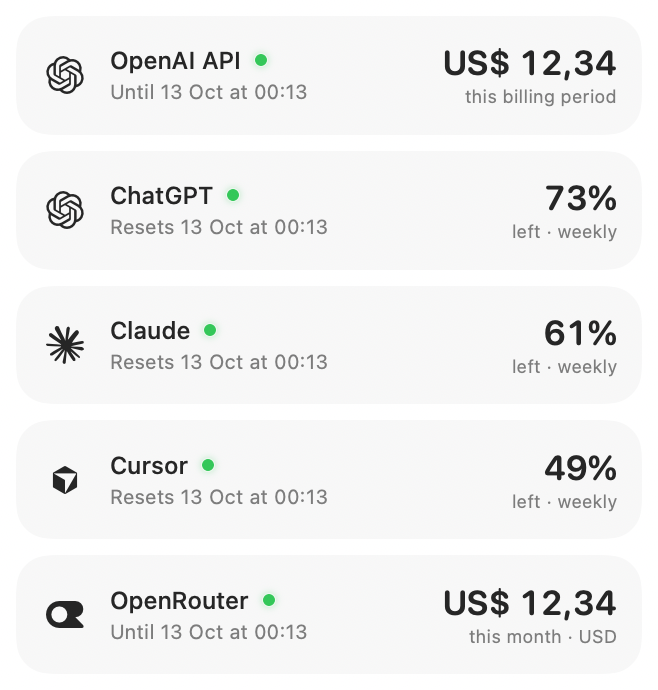
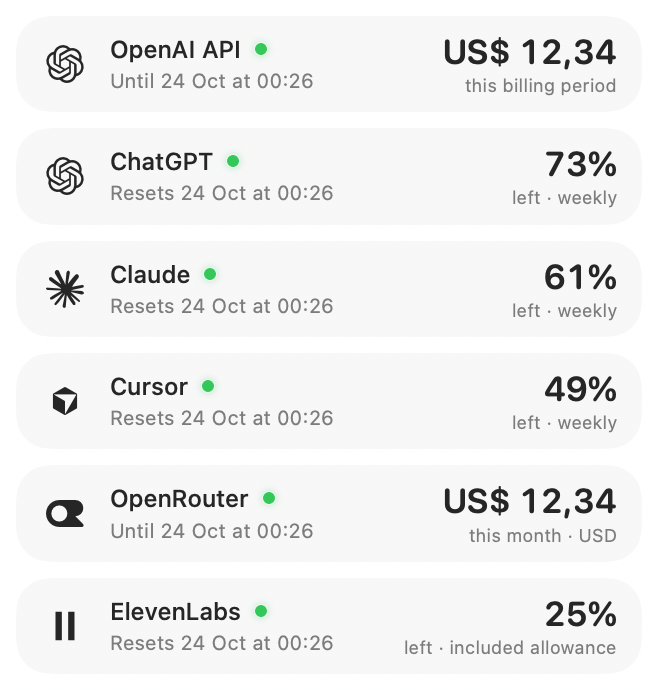
Add ElevenLabs support for AI Pulse 1.7

diff --git a/Tests/ElevenLabsUsageTests.swift b/Tests/ElevenLabsUsageTests.swift
@@ -1,0 +1,67 @@
+import XCTest
+@testable import AIPulseCore
+
+final class ElevenLabsUsageTests: XCTestCase {
+    private let now = Date(timeIntervalSince1970: 1_800_000_000)
+    private func reading(_ json: String) throws -> Reading {
+        try ElevenLabsUsageClient.reading(from: Data(json.utf8), now: now)
+    }
+    func testAllowanceAndReportedReset() throws {
+        let r = try reading(#"{"character_count":2500,"character_limit":10000,"next_character_count_reset_unix":1800100000}"#)
+        XCTAssertEqual(r.provider, .elevenlabs)
+        XCTAssertEqual(r.value, 75)
+        XCTAssertEqual(r.kind, .remaining)
+        XCTAssertEqual(r.periodEnd, Date(timeIntervalSince1970: 1_800_100_000))
+        XCTAssertEqual(r.connectionHealth(at: now), .current)
+        XCTAssertTrue(Provider.elevenlabs.usesAPIKey)
+        XCTAssertEqual(Provider.elevenlabs.defaultMetricKind, .remaining)
+    }
+    func testOverageCannotBecomeNegativeAllowance() throws {
+        XCTAssertEqual(try reading(#"{"character_count":12000,"character_limit":10000}"#).value, 0)
+        XCTAssertEqual(try reading(#"{"character_count":0,"character_limit":10000}"#).value, 100)
+    }
+    func testMissingResetNotInventedAndOldResetExpires() throws {
+        XCTAssertNil(try reading(#"{"character_count":1,"character_limit":10,"next_character_count_reset_unix":null}"#).periodEnd)
+        XCTAssertTrue(try reading(#"{"character_count":1,"character_limit":10,"next_character_count_reset_unix":1799999999}"#).isExpired(at: now))
+    }
+    func testInvalidAllowanceDoesNotProduceFakePercentage() {
+        for json in [#"{}"#, #"{"character_count":-1,"character_limit":100}"#, #"{"character_count":0,"character_limit":0}"#, #"{"character_count":0,"character_limit":-1}"#, #"{"character_count":1,"character_limit":10,"next_character_count_reset_unix":-1}"#] {
+            XCTAssertThrowsError(try reading(json))
+        }
+    }
+    func testSixProvidersCanBeSelectedAndOrdered() {
+        let all = WidgetPresentation.samples(at: now)
+        XCTAssertEqual(all.count, 6)
+        XCTAssertEqual(WidgetPresentation.configuredReadings(all, selection: Provider.allCases, followAppOrder: true).count, 6)
+        XCTAssertEqual(WidgetPresentation.configuredReadings(all, selection: [.elevenlabs, .openai], followAppOrder: false).map(\.provider), [.elevenlabs, .openai])
+    }
+    func testRequestAuthenticationAndErrorsDoNotLeakResponse() async throws {
+        let config = URLSessionConfiguration.ephemeral
+        config.protocolClasses = [StubURLProtocol.self]
+        let session = URLSession(configuration: config)
+        defer { session.invalidateAndCancel(); StubURLProtocol.handler = nil }
+        StubURLProtocol.handler = { request in
+            XCTAssertEqual(request.url?.absoluteString, "https://api.elevenlabs.io/v1/user/subscription")
+            XCTAssertEqual(request.httpMethod, "GET")
+            XCTAssertEqual(request.value(forHTTPHeaderField: "xi-api-key"), "test-key")
+            return (200, Data(#"{"character_count":25,"character_limit":100}"#.utf8))
+        }
+        let result = try await ElevenLabsUsageClient(session: session).fetch(key: " test-key ", now: now)
+        XCTAssertEqual(result.value, 75)
+        for status in [401, 403, 429, 500] {
+            StubURLProtocol.handler = { _ in (status, Data("private-response-marker".utf8)) }
+            do {
+                _ = try await ElevenLabsUsageClient(session: session).fetch(key: "test-key", now: now)
+                XCTFail("Expected HTTP failure")
+            } catch {
+                XCTAssertFalse(error.localizedDescription.contains("private-response-marker"))
+                if status == 401 { guard case UsageError.unauthorized = error else { return XCTFail("Expected authentication error") } }
+                if status == 429 { guard case UsageError.rateLimited = error else { return XCTFail("Expected rate limit") } }
+            }
+        }
+        StubURLProtocol.handler = { _ in XCTFail("Empty key should not be sent"); return (500, Data()) }
+        do { _ = try await ElevenLabsUsageClient(session: session).fetch(key: "  "); XCTFail("Expected missing-key error") }
+        catch { XCTAssertTrue(error.localizedDescription.contains("API key")) }
+    }
+
+}

diff --git a/Shared/ElevenLabsUsageClient.swift b/Shared/ElevenLabsUsageClient.swift
@@ -1,0 +1,49 @@
+import Foundation
+
+/// Reads subscription allowance only; never performs billable generation requests.
+struct ElevenLabsUsageClient {
+    let session: URLSession
+
+    func fetch(key: String, now: Date = Date()) async throws -> Reading {
+        let key = key.trimmingCharacters(in: .whitespacesAndNewlines)
+        guard !key.isEmpty else { throw UsageError.unavailable("Enter an ElevenLabs API key.") }
+        var request = URLRequest(url: URL(string: "https://api.elevenlabs.io/v1/user/subscription")!)
+        request.timeoutInterval = 60
+        request.setValue(key, forHTTPHeaderField: "xi-api-key")
+        request.setValue("application/json", forHTTPHeaderField: "Accept")
+        let (data, response) = try await session.data(for: request)
+        guard let response = response as? HTTPURLResponse else { throw UsageError.network }
+        switch response.statusCode {
+        case 200: break
+        case 401: throw UsageError.unauthorized
+        case 403: throw UsageError.unavailable("Allow subscription read access for this ElevenLabs API key, then check again.")
+        case 429: throw UsageError.rateLimited
+        default: throw UsageError.unavailable("ElevenLabs returned HTTP \(response.statusCode). Try again later.")
+        }
+        return try Self.reading(from: data, now: now)
+    }
+
+    static func reading(from data: Data, now: Date) throws -> Reading {
+        struct Subscription: Decodable {
+            let character_count: Double
+            let character_limit: Double
+            let next_character_count_reset_unix: Double?
+        }
+        let subscription: Subscription
+        do { subscription = try JSONDecoder().decode(Subscription.self, from: data) }
+        catch { throw UsageError.malformed }
+        guard subscription.character_count.isFinite, subscription.character_count >= 0,
+              subscription.character_limit.isFinite, subscription.character_limit > 0 else {
+            throw UsageError.unavailable("ElevenLabs did not report a usable subscription allowance.")
+        }
+        var reset: Date?
+        if let timestamp = subscription.next_character_count_reset_unix {
+            guard timestamp.isFinite, timestamp > 0 else { throw UsageError.malformed }
+            reset = Date(timeIntervalSince1970: timestamp)
+        }
+        let remaining = max(0, 1 - subscription.character_count / subscription.character_limit) * 100
+        return Reading(provider: .elevenlabs, kind: .remaining, value: remaining,
+                       periodEnd: reset, window: "included allowance", fetchedAt: now, state: .ready,
+                       detail: "Remaining included subscription allowance reported by ElevenLabs for this API key. Usage beyond the allowance displays 0%; overage costs and invoice totals are not included. A missing reset date is not estimated.")
+    }
+}

diff --git a/Widget/AIPulseWidget.swift b/Widget/AIPulseWidget.swift
@@ -3,15 +3,15 @@ import SwiftUI
 import AppIntents
 
 enum WidgetProviderChoice: String, AppEnum {
-    case openai, chatgpt, claude, cursor, openrouter
+    case openai, chatgpt, claude, cursor, openrouter, elevenlabs
     static var typeDisplayRepresentation: TypeDisplayRepresentation = "Provider"
-    static var caseDisplayRepresentations: [Self: DisplayRepresentation] = [.openai: "OpenAI API", .chatgpt: "ChatGPT", .claude: "Claude", .cursor: "Cursor", .openrouter: "OpenRouter"]
+    static var caseDisplayRepresentations: [Self: DisplayRepresentation] = [.openai: "OpenAI API", .chatgpt: "ChatGPT", .claude: "Claude", .cursor: "Cursor", .openrouter: "OpenRouter", .elevenlabs: "ElevenLabs"]
 }
 enum WidgetRowChoice: String, AppEnum {
-    case hidden, openai, chatgpt, claude, cursor, openrouter
+    case hidden, openai, chatgpt, claude, cursor, openrouter, elevenlabs
     static var typeDisplayRepresentation: TypeDisplayRepresentation = "Provider row"
     static var caseDisplayRepresentations: [Self: DisplayRepresentation] = [
-        .hidden: "Hidden", .openai: "OpenAI API", .chatgpt: "ChatGPT", .claude: "Claude", .cursor: "Cursor", .openrouter: "OpenRouter"
+        .hidden: "Hidden", .openai: "OpenAI API", .chatgpt: "ChatGPT", .claude: "Claude", .cursor: "Cursor", .openrouter: "OpenRouter", .elevenlabs: "ElevenLabs"
     ]
 }
 struct WidgetOptions: WidgetConfigurationIntent {
@@ -25,10 +25,12 @@ struct WidgetOptions: WidgetConfigurationIntent {
     @Parameter(title: "Fourth row", default: .cursor) var fourth: WidgetRowChoice
     @Parameter(title: "Fifth row", default: .openrouter) var fifth: WidgetRowChoice
 
+    @Parameter(title: "Sixth row", default: .elevenlabs) var sixth: WidgetRowChoice
+
     func arranged(_ readings: [Reading], family: WidgetFamily) -> [Reading] {
         guard family != .systemSmall else { return readings }
         return WidgetPresentation.configuredReadings(readings,
-            selection: [first, second, third, fourth, fifth].compactMap { Provider(rawValue: $0.rawValue) }, followAppOrder: followApp)
+            selection: [first, second, third, fourth, fifth, sixth].compactMap { Provider(rawValue: $0.rawValue) }, followAppOrder: followApp)
     }
 }
 struct PulseEntry: TimelineEntry {

diff --git a/App/PulseStore.swift b/App/PulseStore.swift
@@ -294,6 +294,11 @@ import Darwin
                         throw UsageError.unavailable("Add an OpenRouter Management API key in Settings.")
                     }
                     result = try await OpenRouterCostClient(session: SameHostRedirects.session).fetch(key: key)
+                case .elevenlabs:
+                    guard let key = try Credentials.read(provider.credentialAccount), !key.isEmpty else {
+                        throw UsageError.unavailable("Add an ElevenLabs API key in Settings.")
+                    }
+                    result = try await ElevenLabsUsageClient(session: SameHostRedirects.session).fetch(key: key)
                 case .claude:
                     var id = config.organizationID
                     if id.isEmpty {
@@ -333,7 +338,7 @@ import Darwin
             if case UsageError.unavailable = error { last.state = .unavailable }
             if transient { last.detail = UsageError.network.localizedDescription }
             else if error is UsageError { last.detail = error.localizedDescription }
-            else if provider.usesAPIKey { last.detail = "\(provider.name) could not complete the cost request (error \((error as NSError).code)). Try again." }
+            else if provider.usesAPIKey { last.detail = "\(provider.name) could not complete the usage request (error \((error as NSError).code)). Try again." }
             else { last.detail = "Could not read the provider dashboard. Open its sign-in window and try again." }
             failures[provider, default: 0] += 1
             var delay = min(3600.0, 300 * pow(2, Double(failures[provider, default: 1] - 1)))

diff --git a/Shared/Models.swift b/Shared/Models.swift
@@ -2,14 +2,14 @@ import Foundation
 import CoreGraphics
 
 enum Provider: String, Codable, CaseIterable, Identifiable, Sendable {
-    case openai, chatgpt, claude, cursor, openrouter
+    case openai, chatgpt, claude, cursor, openrouter, elevenlabs
     var id: String { rawValue }
     var name: String {
-        switch self { case .openai: "OpenAI API"; case .chatgpt: "ChatGPT"; case .claude: "Claude"; case .cursor: "Cursor"; case .openrouter: "OpenRouter" }
+        switch self { case .openai: "OpenAI API"; case .chatgpt: "ChatGPT"; case .claude: "Claude"; case .cursor: "Cursor"; case .openrouter: "OpenRouter"; case .elevenlabs: "ElevenLabs" }
     }
-    var usesAPIKey: Bool { self == .openai || self == .openrouter }
+    var usesAPIKey: Bool { self == .openai || self == .openrouter || self == .elevenlabs }
     var credentialAccount: String { rawValue + "-key" }
-    var defaultMetricKind: MetricKind { usesAPIKey ? .cost : .remaining }
+    var defaultMetricKind: MetricKind { (self == .openai || self == .openrouter) ? .cost : .remaining }
     var logo: String { self == .chatgpt ? "openai" : rawValue }
     var website: URL {
         let address = switch self {
@@ -18,6 +18,7 @@ enum Provider: String, Codable, CaseIterable, Identifiable, Sendable {
         case .claude: "https://claude.ai/new#settings/usage"
         case .cursor: "https://cursor.com/dashboard/usage"
         case .openrouter: "https://openrouter.ai/activity"
+        case .elevenlabs: "https://elevenlabs.io/app/subscription"
         }
         return URL(string: address)!
     }

diff --git a/App/ConnectionsView.swift b/App/ConnectionsView.swift
@@ -67,6 +67,13 @@ struct ConnectionsView: View {
                 Picker("Billing day", selection: $config.billingDay) { ForEach(1...31, id: \.self) { Text(String($0)).tag($0) } }.frame(width: 85)
                 Text("UTC · defaults to calendar month").font(.caption).foregroundStyle(.secondary)
             }
+        } else if store.selected == .elevenlabs {
+            Text("Use an ElevenLabs API key with subscription read access. The key stays in this Mac’s Keychain.")
+                .font(.caption).foregroundStyle(.secondary)
+            Link("Open ElevenLabs API keys", destination: URL(string: "https://elevenlabs.io/app/settings/api-keys")!)
+            SecureField("API key · leave blank to keep saved key", text: $key).textFieldStyle(.roundedBorder)
+            Text("Shows the percentage of included subscription allowance remaining and the provider-reported reset date. Overage charges are not included; exhausted allowance shows 0%.")
+                .font(.caption).foregroundStyle(.secondary)
         } else if store.selected == .openrouter {
             Text("Use a Management API key to read account-wide Activity spend for the current UTC month. For organization accounts this includes the whole organization. The key stays in this Mac’s Keychain.")
                 .font(.caption).foregroundStyle(.secondary)

diff --git a/App/ProviderArrangementWindow.swift b/App/ProviderArrangementWindow.swift
@@ -7,7 +7,7 @@ import SwiftUI
     required init?(coder: NSCoder) { fatalError("init(coder:) has not been implemented") }
     func show(store: PulseStore) {
         if window == nil {
-            let window = NSWindow(contentRect: NSRect(x: 0, y: 0, width: 410, height: 440),
+            let window = NSWindow(contentRect: NSRect(x: 0, y: 0, width: 410, height: 492),
                                   styleMask: [.titled, .closable], backing: .buffered, defer: false)
             window.title = "Arrange AI Pulse"
             window.isReleasedWhenClosed = false
@@ -71,6 +71,6 @@ private struct ProviderArrangementView: View {
             }.coordinateSpace(name: "arrangement")
                 .onPreferenceChange(CardFramePreference.self) { frames = $0 }
             Text("Changes are saved automatically.").font(.caption).foregroundStyle(.secondary)
-        }.frame(width: 370, height: 400, alignment: .top).padding(20)
+        }.frame(width: 370, height: 452, alignment: .top).padding(20)
     }
 }

diff --git a/Shared/WidgetPresentation.swift b/Shared/WidgetPresentation.swift
@@ -38,9 +38,9 @@ enum WidgetPresentation {
     static func samples(at now: Date) -> [Reading] {
         Provider.allCases.enumerated().map { index, provider in
             Reading(provider: provider, kind: provider.defaultMetricKind,
-                    value: provider.usesAPIKey ? 12.34 : Double(85 - index * 12),
+                    value: provider.defaultMetricKind == .cost ? 12.34 : Double(85 - index * 12),
                     periodEnd: now.addingTimeInterval(86_400 * 7),
-                    window: provider.usesAPIKey ? "" : "weekly", fetchedAt: now,
+                    window: provider.defaultMetricKind == .cost ? "" : (provider == .elevenlabs ? "included allowance" : "weekly"), fetchedAt: now,
                     state: .ready, detail: "Preview data")
         }
     }

diff --git a/Tests/UsageTests.swift b/Tests/UsageTests.swift
@@ -109,7 +109,7 @@ final class UsageTests: XCTestCase {
                        [[.claude], [.openai], [.chatgpt, .cursor]])
         XCTAssertEqual(CardArrangement.moving(.claude, relativeTo: .claude, placement: .below, in: rows), rows)
         let restored = CardArrangement.normalized([[.cursor, .cursor], [], [.claude]], including: Provider.allCases)
-        XCTAssertEqual(restored, [[.cursor], [.claude], [.openai, .chatgpt, .openrouter]])
+        XCTAssertEqual(restored, [[.cursor], [.claude], [.openai, .chatgpt, .openrouter, .elevenlabs]])
     }
     func testChatGPTSelectsTightestWindowWithMatchingReset() throws {
         let end = now.addingTimeInterval(3600).timeIntervalSince1970

diff --git a/Shared/ProviderViews.swift b/Shared/ProviderViews.swift
@@ -8,6 +8,7 @@ extension Provider {
         case .chatgpt: Color(red: 0.61, green: 0.64, blue: 0.75)
         case .claude: Color(red: 0.83, green: 0.57, blue: 0.41)
         case .openrouter: Color(red: 0.42, green: 0.48, blue: 0.86)
+        case .elevenlabs: Color(red: 0.35, green: 0.35, blue: 0.38)
         case .cursor: Color(red: 0.64, green: 0.61, blue: 0.91)
         }
     }

diff --git a/Scripts/generate-project.py b/Scripts/generate-project.py
@@ -13,7 +13,7 @@ def encode(v):
  if isinstance(v,dict): return '{\n'+''.join(f'{encode(k)} = {encode(x)};\n' for k,x in v.items())+'}'
  if isinstance(v,list): return '('+','.join(encode(x) for x in v)+')'
  return json.dumps(str(v))
-for name in ['openai','claude','cursor','openrouter','openai-glass','claude-glass','cursor-glass','openrouter-glass']:
+for name in ['openai','claude','cursor','openrouter','openai-glass','claude-glass','cursor-glass','openrouter-glass','elevenlabs','elevenlabs-glass']:
  d=root/'Resources/Assets.xcassets'/f'{name}.imageset';d.mkdir(parents=True,exist_ok=True)
  (d/f'{name}.svg').write_bytes((root/'Resources'/f'{name}.svg').read_bytes())
  (d/'Contents.json').write_text(json.dumps({'images':[{'filename':f'{name}.svg','idiom':'universal'}],'info':{'author':'xcode','version':1},'properties':{'preserves-vector-representation':True}}))
@@ -38,7 +38,7 @@ projectConfigs=configs('project',common)
 for target in ['app','widget']:
  files=[]
  for p,r in refs.items():
-  included=(p.startswith('Shared/') and (target=='app' or p not in ['Shared/OpenAICostClient.swift','Shared/OpenRouterCostClient.swift','Shared/Parsers.swift'])) or p.startswith('App/' if target=='app' else 'Widget/')
+  included=(p.startswith('Shared/') and (target=='app' or p not in ['Shared/OpenAICostClient.swift','Shared/OpenRouterCostClient.swift','Shared/ElevenLabsUsageClient.swift','Shared/Parsers.swift'])) or p.startswith('App/' if target=='app' else 'Widget/')
   if included: files.append(add(target+p,isa='PBXBuildFile',fileRef=r))
  sources=add(target+'sources',isa='PBXSourcesBuildPhase',buildActionMask=2147483647,files=files,runOnlyForDeploymentPostprocessing=0)
  resource=add(target+'resources',isa='PBXResourcesBuildPhase',buildActionMask=2147483647,files=[add(target+'assets',isa='PBXBuildFile',fileRef=assets)],runOnlyForDeploymentPostprocessing=0)

diff --git a/README.md b/README.md
@@ -8,7 +8,7 @@ A native macOS menu-bar app, floating dashboard, and WidgetKit widgets for AI su
 
 Download the **AI Pulse DMG** from [GitHub Releases](https://github.com/mbosschaart/AI-Pulse/releases/latest), open it, and drag **AI Pulse.app** to Applications. A ZIP download is also available. Requires macOS 14 or later; the floating dashboard’s native Liquid Glass styles require macOS 26 or later.
 
-Version **1.6 (build 9)** is Developer ID signed and notarized by Apple. Both the ZIP and DMG include the stapled app; checksums are available with the release.
+Version **1.7 (build 10)** is Developer ID signed and notarized by Apple. Both the ZIP and DMG include the stapled app; checksums are available with the release.
 
 ## Choose your view
 
@@ -61,7 +61,7 @@ Green confirms the most recent successful usage check is still current; it does 
 
 ## Native macOS widgets
 
-Native WidgetKit widgets are separate from the floating Cards/Compact dashboard. They require macOS 14 or later and use macOS’s preset formatting. The following tutorial covers version 1.6.
+Native WidgetKit widgets are separate from the floating Cards/Compact dashboard. They require macOS 14 or later and use macOS’s preset formatting. The following tutorial covers version 1.7.
 
 ### 1. Prepare AI Pulse
 
@@ -89,8 +89,8 @@ For Notification Center, click the date/time in the menu bar, choose **Edit Widg
 | Large | One column of provider tiles with usage and period details. |
 
 <img src="screenshots/native-widgets/small-preview.png" alt="Rendered small native widget with one provider" width="170">
-<img src="screenshots/native-widgets/medium-preview.png" alt="Rendered medium native widget with five compact provider rows" width="360">
-<img src="screenshots/native-widgets/large-preview.png" alt="Rendered large native widget with five providers in a single column" width="329">
+<img src="screenshots/native-widgets/medium-preview.png" alt="Rendered medium native widget with six compact provider rows" width="360">
+<img src="screenshots/native-widgets/large-preview.png" alt="Rendered large native widget with six providers in a single column" width="329">
 
 *Rendered examples from the actual widget views using sample data, not screenshots of the macOS gallery. macOS fixes each widget’s outer dimensions. Medium rows stay compact when providers are hidden; macOS controls the background and reserves the full medium footprint. Reset dates and secondary metric labels appear in small/large widgets, not medium.*
 
@@ -109,7 +109,7 @@ Hiding here applies across AI Pulse and pauses automatic checks for that provide
 
 To hide a row on one medium or large widget, right-click → **Edit AI Pulse** and set it to **Hidden**. This works whether Follow app order is on or off.
 
-For a separate order on one medium or large widget, right-click → **Edit AI Pulse**, turn **Follow app order** off, and choose its first through fifth rows. Choose **Hidden** for unwanted rows. Duplicate selections appear once; providers disabled globally stay hidden. Small widgets use their own provider selector.
+For a separate order on one medium or large widget, right-click → **Edit AI Pulse**, turn **Follow app order** off, and choose its first through sixth rows. Choose **Hidden** for unwanted rows. Duplicate selections appear once; providers disabled globally stay hidden. Small widgets use their own provider selector.
 
 WidgetKit does not support arbitrary row-drag gestures or app-defined context-menu commands on the desktop widget. Its right-click menu is provided by macOS. Opening AI Pulse from that menu takes you to Settings. Clicking a provider opens its Settings page. There is no Arrange button on the widget face; the drag editor lives in Settings.
 
@@ -145,6 +145,8 @@ macOS can apply monochrome or tinted widget presentation, which may alter colors
 **Claude:** sign in and choose an organization if required. Uses the lowest reported remaining session/weekly allowance; Enterprise accounts without those windows can display remaining percentage of their monthly spend allowance.
 
 **Cursor:** sign in and check the connection. Shows personal remaining allowance when available, otherwise individual billing-period usage cost. Team spending is never substituted, and usage credits are not represented as invoice charges.
+
+**ElevenLabs:** add an API key with subscription read access (User → Read) in Settings → ElevenLabs. Shows the percentage of included allowance remaining and the reset date reported by the [subscription API](https://elevenlabs.io/docs/api-reference/user/subscription/get). The key stays in macOS Keychain. Usage beyond the allowance shows 0%; overage charges and invoice totals are excluded. Missing reset dates are not estimated. ElevenLabs is available in Cards, Compact, the menu bar, and native widgets; medium/large widgets include a sixth row selector.
 
 **OpenRouter:** add a [Management API key](https://openrouter.ai/settings/management-keys) in Settings. Shows account-wide Activity total spend in USD for the current UTC month using the [Analytics API](https://openrouter.ai/docs/api/api-reference/analytics/query-analytics-data). Organization keys include organization-wide spend; use a personal-account key for personal totals. Regular inference keys cannot read account-wide analytics. Credit purchases and prepaid balances are not monthly spend. The key stays in macOS Keychain.
 
